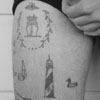
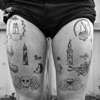
updated tattoo page

diff --git a/tattoo.html b/tattoo.html
@@ -45,10 +45,13 @@ Tattoo Work
 
 <div id="content">
 
-<a href="images/tattoo/crotchshot.jpg" title="Hand poked tattoos" rel="lightbox[tattoo]">
-<img src="images/tattoo/crotchshot.jpg" width = "800" title="Hand poked tattoos" border="0"/></a><br/> <br/> <!--header image-->	
+<a href="images/tattoo/actionshot.jpg" title="Hand poked tattoos" rel="lightbox[tattoo]">
+<img src="images/tattoo/actionshot.jpg" width = "800" title="Hand poked tattoos" border="0"/></a><br/> <br/> <!--header image-->	
 
 <!--Tattoos-->	
+
+<a href="images/tattoo/crotchshot.jpg" title="My legs, mostly done by myself, ongoing collection." rel="lightbox[tattoo]">
+<img src="images/thumbs/tattoo/crotchshot_th.jpg" width = "100" title="Hand Poked Tattoos" border="0"/></a>
 
 <a href="images/tattoo/bloodandthunder.jpg" title="My first boat, Blood & Thunder; Martha's Vineyard, MA, 2015" rel="lightbox[tattoo]">
 <img src="images/thumbs/tattoo/bloodandthunder_th.jpg" width = "100" title="Hand Poked Tattoos" border="0"/></a>
@@ -172,6 +175,8 @@ Tattoo Work
 
 <a href="images/tattoo/mermaid.jpg" title="Mermaid; Boston, MA, 2017" rel="lightbox[tattoo]">
 <img src="images/thumbs/tattoo/mermaid_th.jpg" width = "100" title="Hand Poked Tattoos" border="0"/></a>
+
+
 
 
 
